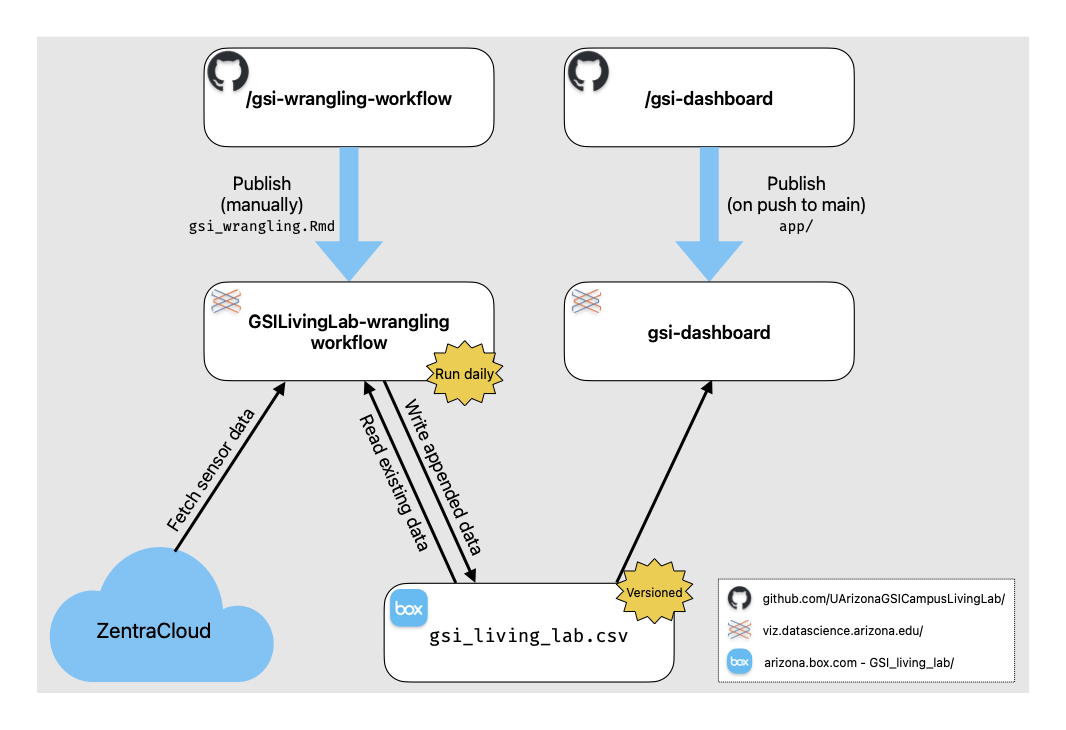
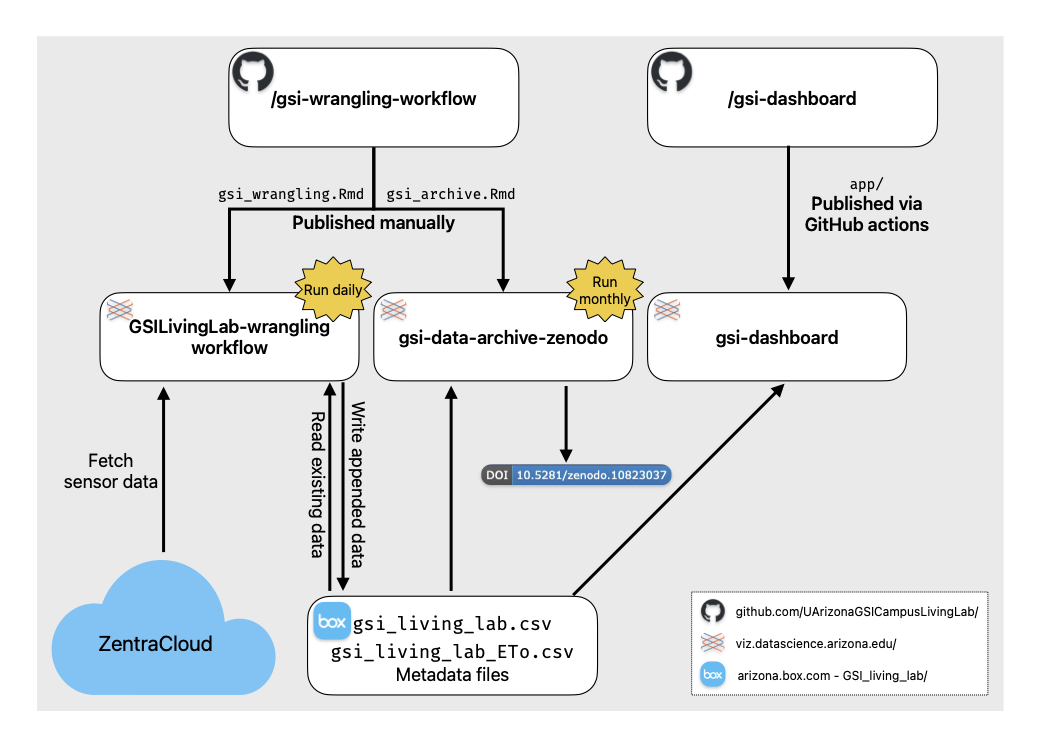
update README

diff --git a/README.md b/README.md
@@ -10,8 +10,10 @@ Request data here: [GSI Living Lab Data Request](https://forms.gle/63qWCybhvHaHu
 
 ![](flowchart.png)
 
-This repository houses `gsi_wrangling.Rmd` which is published to Posit Connect as a scheduled workflow running daily at noon.
-This .Rmd file contains code to pull the most recent data for the Campus Living Lab sites from [ZentraCloud](https://zentracloud.com/), wrangle the data, and append it to a .csv file stored on Box.
+This repository houses `gsi_wrangling.Rmd` and `gsi_archive.Rmd` which are both published (manually) to Posit Connect as scheduled workflows.
+`gsi_wrangling.Rmd` is run daily and to pull the most recent data for the Campus Living Lab sites from [ZentraCloud](https://zentracloud.com/), wrangle the data, and append it to a .csv file stored on Box.
+`gsi_archive.Rmd` is run monthly to pull the most recent data and metadata from Box and upload it to Zenodo as a new version of [10.5281/zenodo.10823037](https://zenodo.org/doi/10.5281/zenodo.10823037).
+\
 The [gsi-dashboard repository](https://github.com/UArizonaGSICampusLivingLab/gsi-dashboard) contains code for a [Shiny](https://shiny.posit.co/) app that is automatically deployed to Posit Connect (using GitHub Actions) when updates are made to the main branch.
 This Shiny app reads in the data from Box on start-up and provides interactive visualizations of the data.
 
@@ -69,9 +71,9 @@ The only thing I've done differently from the `boxr` documentation is to copy th
 
 #### Posit Connect
 
-The automated workflow can be found in `gsi_wrangling.Rmd` and is published on University of Arizona's [Posit Connect server](https://datascience.arizona.edu/analytics-powerhouse/rstudio-connect) where it runs daily as a scheduled report.
+To publish `gsi_wrangling.Rmd` to [Posit Connect](https://datascience.arizona.edu/analytics-powerhouse/rstudio-connect) and have it work, you need to add secret [environment variables](https://docs.posit.co/connect/user/content-settings/#content-vars) for `ZENTRACLOUD_TOKEN` and `BOX_TOKEN_TEXT`.
 
-To publish `gsi_wrangling.Rmd` to Posit Connect and have it work, you need to add secret [environment variables](https://docs.posit.co/connect/user/content-settings/#content-vars) for `ZENTRACLOUD_TOKEN` and `BOX_TOKEN_TEXT`.
+Similarly, the `gsi_archive.Rmd` scheduled report requires the environment variables `BOX_TOKEN_TEXT` and `ZENODO_TOKEN` to work correctly.
 
 ### Files
 
@@ -82,5 +84,3 @@ in `R/` you will find:
 -   `gsi_get_data.R`: a function, `gsi_get_data()`, for downloading and wrangling data from the Zentra Cloud API.
 -   `gsi_get_eto.R`: a function, `gsi_get_eto()`, for downloading potential evapotranspiration data from the ZentraCloud models API endpoint.
 -   Other functions used to calculate variables such as heat index, wind chill, etc.
-
-
